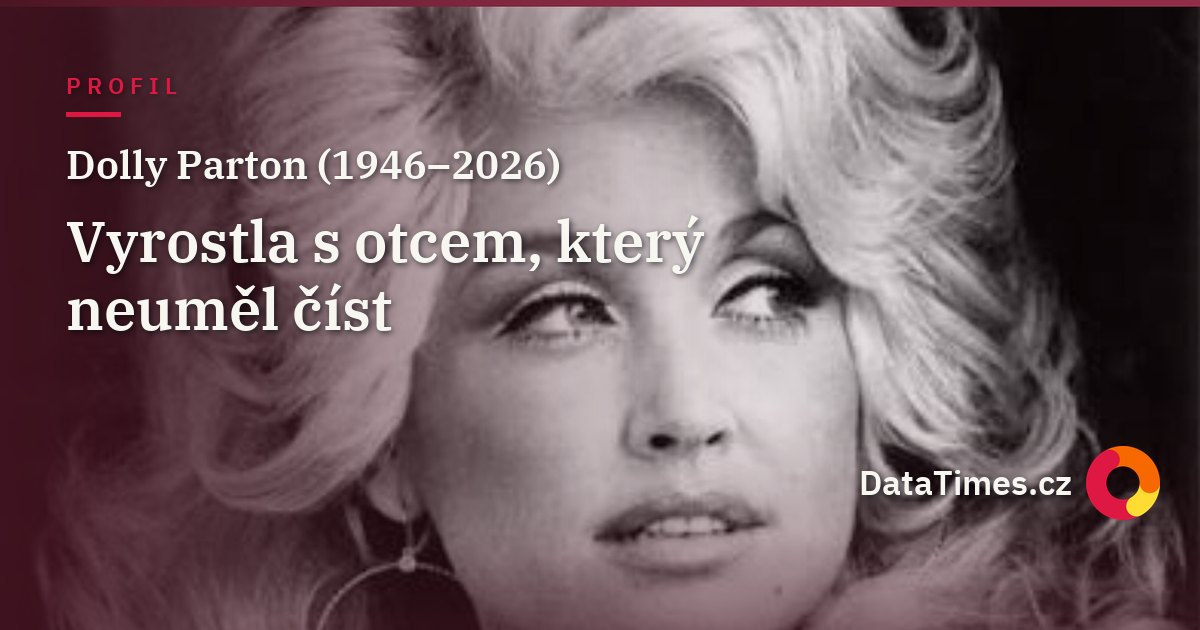
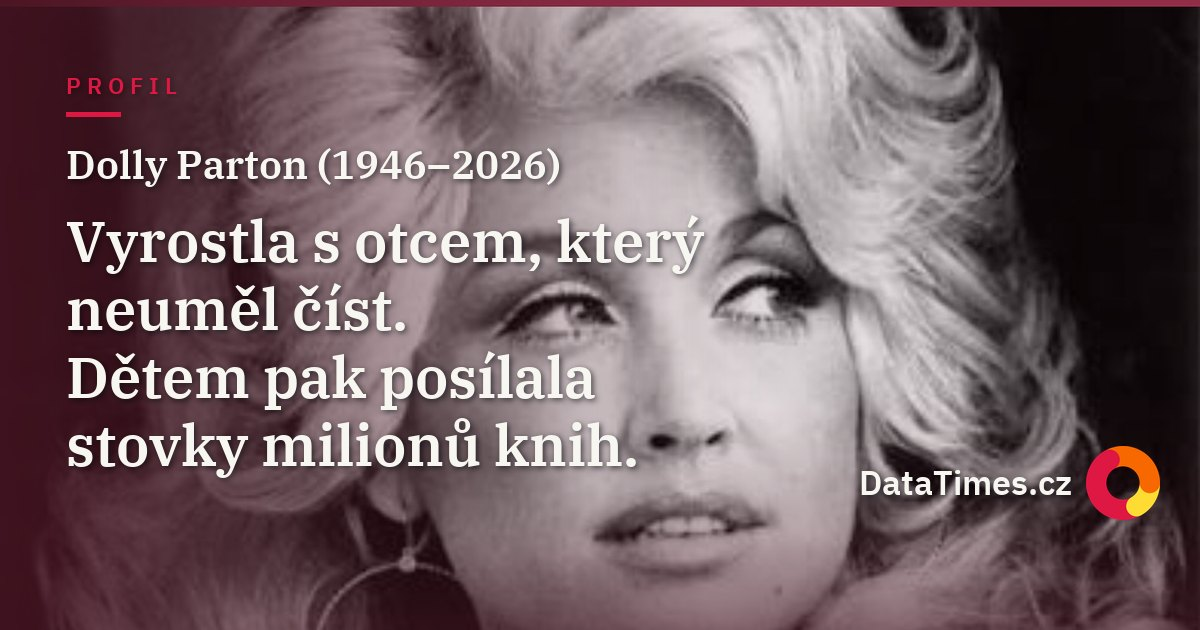
feat: autorské sítě, centrování tagů a doplněné cover texty
- /autor: přidány sítě Facebook, Instagram a LinkedIn; sjednocené pořadí ikon
  (Bluesky → Facebook → Instagram → Twitter → Threads → LinkedIn → mail)
  v AuthorProfileCard i ContactsBlock
- ArticleCard: svislé centrování oválných tagů přes text-box-trim (bez
  diakritiky na výšku verzálek, s diakritikou včetně háčků/čárek); pravidlo
  do packages/ui/DESIGN.md
- cover Dolly: doplněn celý 4řádkový text (čistý ořez z portrétu)
- cover evropské soudy: nová neutrální podkladová fotka (socha Justitie)
  + nový text; zdroj uložen do images/
- cover izraelsko-palestinský: nový text
- izraelsko-palestinský článek: mezititulek „Mezinárodní správa v roce 2027
  a co dál?" (dříve „Rozhoduje se o roce 2027")

Changed region(s): [[0.0617, 0.5429, 0.555, 0.754], [0.3083, 0.5127, 0.3392, 0.5429]]

diff --git a/apps/web/components/common/ContactsBlock.tsx b/apps/web/components/common/ContactsBlock.tsx
@@ -4,10 +4,13 @@
 import { Grid, Paper, Text, Title, Group, Stack, Anchor, Box, rem,useMantineTheme }from '@mantine/core';
 import {
   IconMail,
-  IconPhone, 
-  IconBrandX, 
+  IconPhone,
+  IconBrandX,
   IconBrandThreads,
-  IconBrandBluesky 
+  IconBrandBluesky,
+  IconBrandFacebook,
+  IconBrandInstagram,
+  IconBrandLinkedin
 } from '@tabler/icons-react';
 import { useState } from 'react';
 
@@ -21,6 +24,9 @@ interface ContactPerson {
     bluesky: string;
     threads: string;
     twitter: string;
+    facebook?: string;   // cesta za facebook.com/
+    instagram?: string;  // handle bez @
+    linkedin?: string;   // cesta za linkedin.com/in/
   };
 }
 
@@ -34,7 +40,10 @@ const contacts: ContactPerson[] = [
     social: {
       bluesky: "katemahdalova.bsky.social",
       threads: "@katemahdalova",
-      twitter: "@data_zurnalist"
+      twitter: "@data_zurnalist",
+      facebook: "readerwriterKate",
+      instagram: "katemahdalova",
+      linkedin: "katerina-mahdalova-89050a70"
     }
   },
   {
@@ -175,14 +184,15 @@ export function ContactsBlock() {
                     </Group> */}
                   </Box>
 
-                  {/* Social Media */}
+                  {/* Social Media — pevné pořadí shodné s AuthorProfileCard:
+                      Bluesky → Facebook → Instagram → Twitter → Threads → LinkedIn */}
                   <Stack gap="xs">
                     <Group gap="xs">
-                      <IconBrandBluesky 
+                      <IconBrandBluesky
                         style={{ width: rem(20), height: rem(20) }}
                         stroke={1.5}
                       />
-                      <Anchor 
+                      <Anchor
                         href={`https://${person.social.bluesky}`}
                         underline="hover"
                         target="_blank"
@@ -192,12 +202,61 @@ export function ContactsBlock() {
                       </Anchor>
                     </Group>
 
+                    {person.social.facebook && (
+                      <Group gap="xs">
+                        <IconBrandFacebook
+                          style={{ width: rem(20), height: rem(20) }}
+                          stroke={1.5}
+                        />
+                        <Anchor
+                          href={`https://www.facebook.com/${person.social.facebook}`}
+                          underline="hover"
+                          target="_blank"
+                          rel="noopener noreferrer"
+                        >
+                          {person.social.facebook}
+                        </Anchor>
+                      </Group>
+                    )}
+
+                    {person.social.instagram && (
+                      <Group gap="xs">
+                        <IconBrandInstagram
+                          style={{ width: rem(20), height: rem(20) }}
+                          stroke={1.5}
+                        />
+                        <Anchor
+                          href={`https://www.instagram.com/${person.social.instagram.replace('@', '')}/`}
+                          underline="hover"
+                          target="_blank"
+                          rel="noopener noreferrer"
+                        >
+                          @{person.social.instagram.replace('@', '')}
+                        </Anchor>
+                      </Group>
+                    )}
+
                     <Group gap="xs">
-                      <IconBrandThreads 
+                      <IconBrandX
                         style={{ width: rem(20), height: rem(20) }}
                         stroke={1.5}
                       />
-                      <Anchor 
+                      <Anchor
+                        href={`https://x.com/${person.social.twitter.replace('@', '')}`}
+                        underline="hover"
+                        target="_blank"
+                        rel="noopener noreferrer"
+                      >
+                        {person.social.twitter}
+                      </Anchor>
+                    </Group>
+
+                    <Group gap="xs">
+                      <IconBrandThreads
+                        style={{ width: rem(20), height: rem(20) }}
+                        stroke={1.5}
+                      />
+                      <Anchor
                         href={`https://threads.net/${person.social.threads.replace('@', '')}`}
                         underline="hover"
                         target="_blank"
@@ -207,20 +266,22 @@ export function ContactsBlock() {
                       </Anchor>
                     </Group>
 
-                    <Group gap="xs">
-                      <IconBrandX 
-                        style={{ width: rem(20), height: rem(20) }}
-                        stroke={1.5}
-                      />
-                      <Anchor 
-                        href={`https://x.com/${person.social.twitter.replace('@', '')}`}
-                        underline="hover"
-                        target="_blank"
-                        rel="noopener noreferrer"
-                      >
-                        {person.social.twitter}
-                      </Anchor>
-                    </Group>
+                    {person.social.linkedin && (
+                      <Group gap="xs">
+                        <IconBrandLinkedin
+                          style={{ width: rem(20), height: rem(20) }}
+                          stroke={1.5}
+                        />
+                        <Anchor
+                          href={`https://www.linkedin.com/in/${person.social.linkedin}/`}
+                          underline="hover"
+                          target="_blank"
+                          rel="noopener noreferrer"
+                        >
+                          in/{person.social.linkedin}
+                        </Anchor>
+                      </Group>
+                    )}
                   </Stack>
                 </Stack>
               </Paper>

diff --git a/apps/web/components/common/AuthorProfileCard.tsx b/apps/web/components/common/AuthorProfileCard.tsx
@@ -7,6 +7,9 @@ import {
   IconBrandBluesky,
   IconBrandThreads,
   IconBrandX,
+  IconBrandFacebook,
+  IconBrandInstagram,
+  IconBrandLinkedin,
 } from '@tabler/icons-react';
 import { getAuthorProfile } from '@/lib/authorsProfile';
 import styles from './AuthorProfileCard.module.css';
@@ -28,17 +31,28 @@ interface AuthorProfileCardProps {
 export default function AuthorProfileCard({ name }: AuthorProfileCardProps) {
   const profile = getAuthorProfile(name);
 
+  // Pořadí ikon je pevné a shodné napříč profily i kontakty (ContactsBlock):
+  // Bluesky → Facebook → Instagram → Twitter → Threads → LinkedIn → e-mail.
   const socials: { label: string; href: string; icon: ReactNode }[] = [];
   const s = profile?.social;
   if (s?.bluesky) {
     socials.push({ label: 'Bluesky', href: `https://${s.bluesky}`, icon: <IconBrandBluesky size={19} stroke={1.8} /> });
   }
+  if (s?.facebook) {
+    socials.push({ label: 'Facebook', href: `https://www.facebook.com/${s.facebook}`, icon: <IconBrandFacebook size={19} stroke={1.8} /> });
+  }
+  if (s?.instagram) {
+    socials.push({ label: 'Instagram', href: `https://www.instagram.com/${s.instagram.replace(/^@/, '')}/`, icon: <IconBrandInstagram size={19} stroke={1.8} /> });
+  }
+  if (s?.twitter) {
+    socials.push({ label: 'X', href: `https://twitter.com/${s.twitter.replace(/^@/, '')}`, icon: <IconBrandX size={19} stroke={1.8} /> });
+  }
   if (s?.threads) {
     const handle = s.threads.startsWith('@') ? s.threads : `@${s.threads}`;
     socials.push({ label: 'Threads', href: `https://www.threads.net/${handle}`, icon: <IconBrandThreads size={19} stroke={1.8} /> });
   }
-  if (s?.twitter) {
-    socials.push({ label: 'X', href: `https://twitter.com/${s.twitter.replace(/^@/, '')}`, icon: <IconBrandX size={19} stroke={1.8} /> });
+  if (s?.linkedin) {
+    socials.push({ label: 'LinkedIn', href: `https://www.linkedin.com/in/${s.linkedin}/`, icon: <IconBrandLinkedin size={19} stroke={1.8} /> });
   }
   if (profile?.email) {
     socials.push({ label: 'E-mail', href: `mailto:${profile.email}`, icon: <IconMail size={19} stroke={1.8} /> });

diff --git a/packages/ui/src/components/ArticleCard.tsx b/packages/ui/src/components/ArticleCard.tsx
@@ -13,6 +13,13 @@ import classes from './ArticleCard.module.css';
 import { AuthorByline } from './AuthorByline';
 import { fitFor, resolvePaletteColor } from '../lib/coverFit';
 
+/**
+ * Má tag (verzálky rubriky) českou diakritiku s háčkem/čárkou nad písmenem?
+ * Podle toho se svisle centruje jinak – viz `.ratingAccent` / `.ratingPlain`
+ * v ArticleCard.module.css a pravidlo „Oválné tagy: svislé centrování" v DESIGN.md.
+ */
+const HAS_ACCENT = /[áčďéěíňóřšťúůýžÁČĎÉĚÍŇÓŘŠŤÚŮÝŽ]/;
+
 interface ArticleCardProps {
   title: string;
   excerpt: string;
@@ -125,7 +132,9 @@ export function ArticleCard({
           {tags.length > 0 && (
             <Badge
               key={tags[0]}
-              className={classes.rating}
+              className={`${classes.rating} ${
+                HAS_ACCENT.test(tags[0]) ? classes.ratingAccent : classes.ratingPlain
+              }`}
               variant="gradient"
               gradient={{ from: theme.colors.brand[3], to: theme.colors.brand[8] }}
             >

diff --git a/packages/ui/src/components/ArticleCard.module.css b/packages/ui/src/components/ArticleCard.module.css
@@ -18,6 +18,22 @@
   font-family: var(--mantine-font-family-headings);
 }
 
+/* Svislé centrování textu v oválu. Verzálky nemají dolní dotažnice, takže by
+   defaultní řádkový box (s prostorem pro dotažnice i diakritiku) posadil text
+   moc vysoko. `text-box-trim` seřízne řádkový box na skutečné okraje písma:
+   - bez diakritiky → na výšku samotných verzálek (cap → baseline),
+   - s diakritikou  → nech nahoře prostor pro háčky/čárky (text → baseline).
+   Když prohlížeč `text-box-trim` neumí, zůstane původní chování (fallback). */
+.rating :global(.mantine-Badge-label) {
+  text-box-trim: trim-both;
+}
+.ratingPlain :global(.mantine-Badge-label) {
+  text-box-edge: cap alphabetic;
+}
+.ratingAccent :global(.mantine-Badge-label) {
+  text-box-edge: text alphabetic;
+}
+
 .imageLink {
   position: relative;
   z-index: 2;

diff --git a/apps/web/lib/authorsProfile.ts b/apps/web/lib/authorsProfile.ts
@@ -7,6 +7,9 @@ export interface AuthorSocial {
   bluesky?: string; // handle bez protokolu, např. "katemahdalova.bsky.social"
   threads?: string; // handle s @, např. "@katemahdalova"
   twitter?: string; // handle s @, např. "@data_zurnalist"
+  facebook?: string; // cesta za facebook.com/, např. "readerwriterKate"
+  instagram?: string; // handle bez @, např. "katemahdalova"
+  linkedin?: string; // cesta za linkedin.com/in/, např. "katerina-mahdalova-89050a70"
 }
 
 export interface AuthorProfile {
@@ -27,6 +30,9 @@ const PROFILES: AuthorProfile[] = [
       bluesky: 'katemahdalova.bsky.social',
       threads: '@katemahdalova',
       twitter: '@data_zurnalist',
+      facebook: 'readerwriterKate',
+      instagram: 'katemahdalova',
+      linkedin: 'katerina-mahdalova-89050a70',
     },
   },
   {

diff --git a/packages/ui/DESIGN.md b/packages/ui/DESIGN.md
@@ -60,6 +60,20 @@ body font — on `apps/web` a serif badge looks wrong at pill size. Mantine's
 `.rating` in `ArticleCard.module.css`, `.relatedBadge` in `box.module.css`).
 This is a site-wide rule for any new badge.
 
+**Oval tag/badge — vertical centering (`text-box-trim`).** Verzálky (rubriky
+"MAPY", "RUSKO", "GAZA", "ŠVÉDSKO"…) nemají dolní dotažnice, takže defaultní
+řádkový box je posadí opticky moc vysoko (empiricky −4 px u čistých verzálek,
+až −8 px u slov s diakritikou). Řádkový box proto seřízni na skutečné okraje
+písma přes `text-box-trim: trim-both` na `.mantine-Badge-label`, s edge podle
+diakritiky:
+- **bez diakritiky** → `text-box-edge: cap alphabetic` (výška samotných verzálek),
+- **s diakritikou** (háčky/čárky) → `text-box-edge: text alphabetic` (nech nahoře
+  prostor pro diakritiku, ať se centruje celá výška i s háčky/čárkami).
+
+Rozliš to v komponentě (regex `HAS_ACCENT` na první tag v `ArticleCard.tsx`) a
+přepni třídu `.ratingPlain` / `.ratingAccent`. Prohlížeč bez podpory
+`text-box-trim` spadne zpět na původní chování. Platí pro každý nový oválný tag.
+
 ---
 
 ### Bleed / vyčuhující prvky (`apps/web`)

diff --git a/apps/web/app/clanek/_articles/analyza-2026-08-10-izraelsko-palestinsky-konflikt/index.md b/apps/web/app/clanek/_articles/analyza-2026-08-10-izraelsko-palestinsky-konflikt/index.md
@@ -163,7 +163,7 @@ Napětí mezi Izraelem a Íránem přerostlo v červnu 2025 v přímý dvanácti
 
 Původně lokální spor dvou národů o jedno území se tak stále těsněji propojuje se soupeřením Izraele, Íránu, arabských států a Spojených států o budoucí uspořádání celého Blízkého východu.
 
-## Rozhoduje se o roce 2027
+## Mezinárodní správa v roce 2027 a co dál?
 
 Návrh rezoluce OSN, o kterém jednají zprostředkovatelé, počítá s tím, že Gazu bude přechodně spravovat mezinárodní správa opřená o bezpečnostní sílu. Po vypršení jejího mandátu v roce 2027 má území převzít reformovaná Palestinská samospráva.
 
